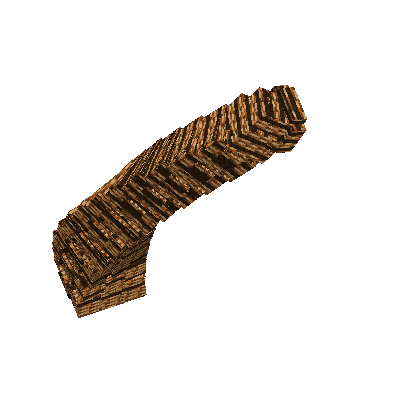
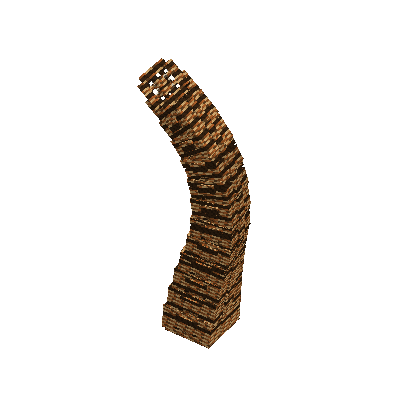
fix(art): orient Sandworm front-facing towards viewer in entity gallery (v1.19.63)

Changed region(s): [[0.12, 0.15, 0.78, 0.87]]

diff --git a/tools/generate_entity_gallery.py b/tools/generate_entity_gallery.py
@@ -388,23 +388,38 @@ def apply_entity_pose(part_nodes, entity_id, t):
             part_nodes['head']['ry'] = math.sin(t) * 0.12
 
     elif entity_id == 'sandworm':
+        sway = math.sin(t) * 0.03
+        sway_y = math.cos(t) * 0.02
         if 'base' in part_nodes:
-            part_nodes['base']['rx'] = 0.35 + math.sin(t) * 0.04
-            part_nodes['base']['ry'] = -0.5
-            part_nodes['base']['rz'] = 0.25
+            part_nodes['base']['rx'] = 0.15 + sway * 0.5
+            part_nodes['base']['ry'] = 0.20 + sway_y
+            part_nodes['base']['rz'] = 0.10
         for idx in range(1, 11):
             name = f'segment_{idx}'
             if name in part_nodes:
-                part_nodes[name]['rx'] = 0.08 + math.sin(t - idx * 0.3) * 0.03
-                part_nodes[name]['ry'] = 0.10 + math.cos(t - idx * 0.3) * 0.02
-                part_nodes[name]['rz'] = -0.06
+                undulate = math.sin(t - idx * 0.3) * 0.02
+                if idx <= 4:
+                    rx = 0.04 + undulate
+                    ry = 0.03 + math.cos(t - idx * 0.3) * 0.015
+                    rz = 0.02
+                elif idx <= 7:
+                    rx = -0.12 + undulate * 1.2
+                    ry = -0.02 + math.cos(t - idx * 0.3) * 0.015
+                    rz = -0.02
+                else:
+                    rx = -0.18 + undulate * 1.5
+                    ry = -0.04 + math.cos(t - idx * 0.3) * 0.02
+                    rz = -0.01
+                part_nodes[name]['rx'] = rx
+                part_nodes[name]['ry'] = ry
+                part_nodes[name]['rz'] = rz
         if 'neck' in part_nodes:
-            part_nodes['neck']['rx'] = -0.15 + math.sin(t - 3.2) * 0.04
-            part_nodes['neck']['ry'] = 0.2
-            part_nodes['neck']['rz'] = -0.1
+            part_nodes['neck']['rx'] = -0.05 + math.sin(t - 3.2) * 0.02
+            part_nodes['neck']['ry'] = 0.0 + math.cos(t - 3.2) * 0.02
+            part_nodes['neck']['rz'] = 0.0
         if 'head' in part_nodes:
-            part_nodes['head']['rx'] = -0.25 + math.sin(t - 3.5) * 0.05
-            part_nodes['head']['ry'] = 0.3
+            part_nodes['head']['rx'] = -0.16 + math.sin(t - 3.5) * 0.02
+            part_nodes['head']['ry'] = -0.68 + math.cos(t - 3.5) * 0.02
             part_nodes['head']['rz'] = 0.0
         if 'teeth_outer' in part_nodes: part_nodes['teeth_outer']['rz'] = t
         if 'teeth_middle' in part_nodes: part_nodes['teeth_middle']['rz'] = -t * 1.5

diff --git a/src/test/java/com/fhfelipefh/sandstorm/architecture/DesertMobEcosystemArchitectureTest.java b/src/test/java/com/fhfelipefh/sandstorm/architecture/DesertMobEcosystemArchitectureTest.java
@@ -60,7 +60,7 @@ class DesertMobEcosystemArchitectureTest {
     void versionMustMatchCurrentRelease() throws IOException {
         Path gradleProps = Path.of("gradle.properties");
         String content = Files.readString(gradleProps);
-        assertTrue(content.contains("version=1.19.62"), "gradle.properties must be 1.19.62");
+        assertTrue(content.contains("version=1.19.63"), "gradle.properties must be 1.19.63");
     }
 
     @Test

diff --git a/src/test/java/com/fhfelipefh/sandstorm/architecture/WardenAndroidAndReactorArchitectureTest.java b/src/test/java/com/fhfelipefh/sandstorm/architecture/WardenAndroidAndReactorArchitectureTest.java
@@ -86,7 +86,7 @@ public class WardenAndroidAndReactorArchitectureTest {
     @Test
     public void testVersionBumped() throws IOException {
         String content = Files.readString(Path.of("gradle.properties"));
-        assertTrue(content.contains("version=1.19.62"), "Version must be bumped to 1.19.62");
+        assertTrue(content.contains("version=1.19.63"), "Version must be bumped to 1.19.63");
     }
 }
 
